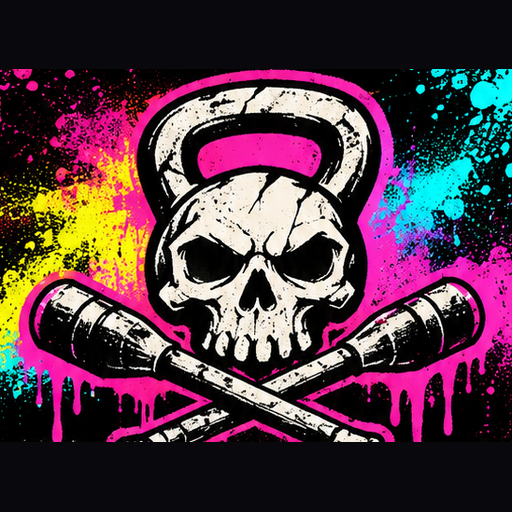
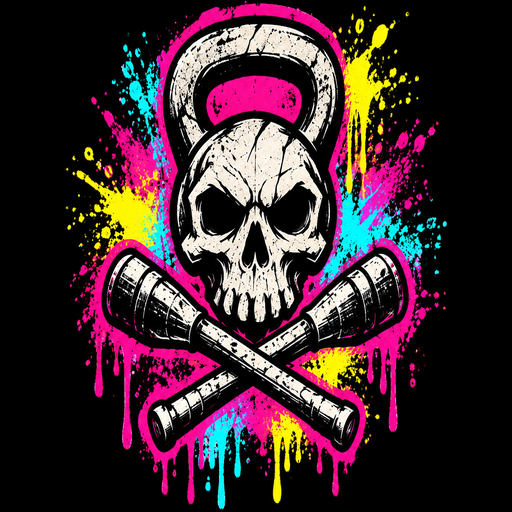
Add files via upload

diff --git a/index.html b/index.html
@@ -1,3 +1,3 @@
 <!doctype html>
-<html lang="en"><head><meta charset="utf-8"><meta name="viewport" content="width=device-width,initial-scale=1,viewport-fit=cover"><meta name="theme-color" content="#101013"><meta name="description" content="Offline-first kettlebell and club training log"><link rel="manifest" href="manifest.webmanifest"><link rel="icon" href="icon-192.png"><link rel="apple-touch-icon" href="icon-192.png"><link rel="stylesheet" href="styles.css?v=14"><title>Strength Lab</title></head>
-<body><div id="app"><header class="top"><div class="brand"><div class="brandmark"><img src="skull-clubs-spray.png" alt="Kettlebell skull and crossed heavy clubs"></div><div><h1 id="page-heading">Strength<br>Lab</h1><span class="pink-stroke" aria-hidden="true"></span><small id="page-tagline">Kettlebell / Heavy Club</small></div></div><span class="offline" id="network">Offline ready</span></header><nav class="tabs" aria-label="Main navigation"><button class="tab" data-view="hub">Training Hub</button><button class="tab selected" data-view="train">Train</button><button class="tab" data-view="history">History</button><button class="tab" data-view="settings">Settings</button></nav><main id="view" aria-live="polite"></main></div><dialog id="dialog"><form method="dialog" id="dialog-content"></form></dialog><script src="app.js?v=14" defer></script></body></html>
+<html lang="en"><head><meta charset="utf-8"><meta name="viewport" content="width=device-width,initial-scale=1,viewport-fit=cover"><meta name="theme-color" content="#101013"><meta name="description" content="Offline-first kettlebell and club training log"><link rel="manifest" href="manifest.webmanifest"><link rel="icon" href="icon-192.png"><link rel="apple-touch-icon" href="icon-192.png"><link rel="stylesheet" href="styles.css?v=15"><title>Strength Lab</title></head>
+<body><div id="app"><header class="top"><div class="brand"><div class="brandmark"><img src="logo-skull-clubs.png" alt="Kettlebell skull and crossed heavy clubs"></div><div><h1 id="page-heading">Strength<br>Lab</h1><span class="pink-stroke" aria-hidden="true"></span><small id="page-tagline">Kettlebell / Heavy Club</small></div></div><span class="offline" id="network">Offline ready</span></header><nav class="tabs" aria-label="Main navigation"><button class="tab" data-view="hub">Training Hub</button><button class="tab selected" data-view="train">Train</button><button class="tab" data-view="history">History</button><button class="tab" data-view="settings">Settings</button></nav><main id="view" aria-live="polite"></main></div><dialog id="dialog"><form method="dialog" id="dialog-content"></form></dialog><script src="app.js?v=15" defer></script></body></html>

diff --git a/sw.js b/sw.js
@@ -1,1 +1,1 @@
-const CACHE='strength-lab-v14';const ASSETS=['./','./index.html','./styles.css','./app.js','./manifest.webmanifest','./icon-192.png','./icon-512.png','./concept-skull.png','./spray.svg','./skull-clubs-spray.png','./spray-background.webp','./strength-wordmark.webp'];self.addEventListener('install',e=>e.waitUntil(caches.open(CACHE).then(c=>c.addAll(ASSETS)).then(()=>self.skipWaiting())));self.addEventListener('activate',e=>e.waitUntil(caches.keys().then(keys=>Promise.all(keys.filter(k=>k!==CACHE).map(k=>caches.delete(k)))).then(()=>self.clients.claim())));self.addEventListener('fetch',e=>{if(e.request.method!=='GET'||new URL(e.request.url).origin!==self.location.origin)return;e.respondWith(fetch(e.request).then(r=>{if(r.ok){const copy=r.clone();e.waitUntil(caches.open(CACHE).then(c=>c.put(e.request,copy)))}return r}).catch(()=>caches.match(e.request).then(v=>v||caches.match('./index.html'))))});
+const CACHE='strength-lab-v15';const ASSETS=['./','./index.html','./styles.css','./app.js','./manifest.webmanifest','./icon-192.png','./icon-512.png','./concept-skull.png','./spray.svg','./skull-clubs-spray.png','./spray-background.webp','./strength-wordmark.webp','./logo-skull-clubs.png','./header-strength-lab.png','./background-graffiti.png'];self.addEventListener('install',e=>e.waitUntil(caches.open(CACHE).then(c=>c.addAll(ASSETS)).then(()=>self.skipWaiting())));self.addEventListener('activate',e=>e.waitUntil(caches.keys().then(keys=>Promise.all(keys.filter(k=>k!==CACHE).map(k=>caches.delete(k)))).then(()=>self.clients.claim())));self.addEventListener('fetch',e=>{if(e.request.method!=='GET'||new URL(e.request.url).origin!==self.location.origin)return;e.respondWith(fetch(e.request).then(r=>{if(r.ok){const copy=r.clone();e.waitUntil(caches.open(CACHE).then(c=>c.put(e.request,copy)))}return r}).catch(()=>caches.match(e.request).then(v=>v||caches.match('./index.html'))))});

diff --git a/styles.css b/styles.css
@@ -228,3 +228,16 @@ body[data-page="train"] .top{min-height:165px!important}
 body[data-page="train"] #page-heading{width:53vw;height:68px}
 .top{min-height:130px!important}
 }
+
+/* V15 — three approved standalone artworks only. All application logic unchanged. */
+html,body{background:#08090d url('./background-graffiti.png') center top / 100% auto repeat-y!important}
+#app{background:linear-gradient(90deg,#08090ddd,#08090df0 7%,#08090df0 93%,#08090ddd)!important}
+.brandmark img{content:url('./logo-skull-clubs.png')!important}
+/* Full uncropped banner on Train: its own full artwork, not clipped fragments. */
+body[data-page="train"] .top{width:100%!important;box-sizing:border-box!important;aspect-ratio: 3.2 / 1!important;min-height:0!important;height:auto!important;padding:0!important;position:relative!important;background:#08090d url('./header-strength-lab.png') center center / 100% 100% no-repeat!important;border:0!important;box-shadow:none!important;overflow:visible!important}
+body[data-page="train"] .top:before,body[data-page="train"] .top:after{display:none!important}
+body[data-page="train"] .top .brand{display:none!important}
+body[data-page="train"] .top .offline{position:absolute!important;right:8px;bottom:4px;z-index:2;font-size:9px!important;background:#08090dbb!important;padding:2px 5px!important}
+/* Other tabs retain their dynamic headings and use the new standalone logo. */
+body:not([data-page="train"]) .top{background:#08090dc9!important}
+body:not([data-page="train"]) .brandmark{background:#08090d!important}

diff --git a/README.md b/README.md
@@ -1,1 +1,1 @@
-Strength Lab V14: actual approved spraypaint skull + crossed-clubs art, artwork wordmark on Train, dynamic headings elsewhere, real spraypaint page background, full neon borders around every exercise. Training logic preserved. Upload all files to repository root and refresh ?v=14.\n
+Strength Lab V15: Only the three approved standalone images were integrated: skull-and-clubs app icon, complete Strength Lab header banner, and full graffiti background. All workout functionality is unchanged. Upload files inside strength-lab to GitHub repository root, commit, open ?v=15 and hard refresh.
